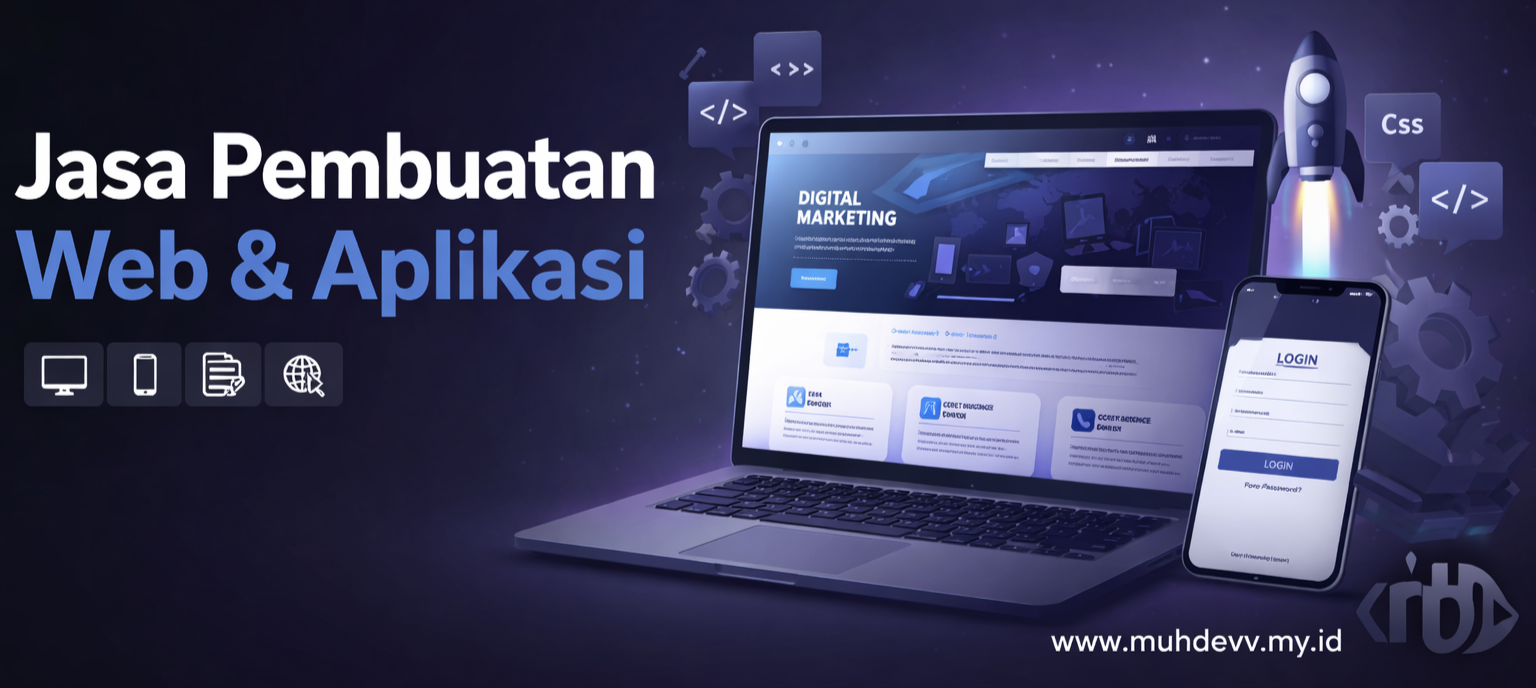
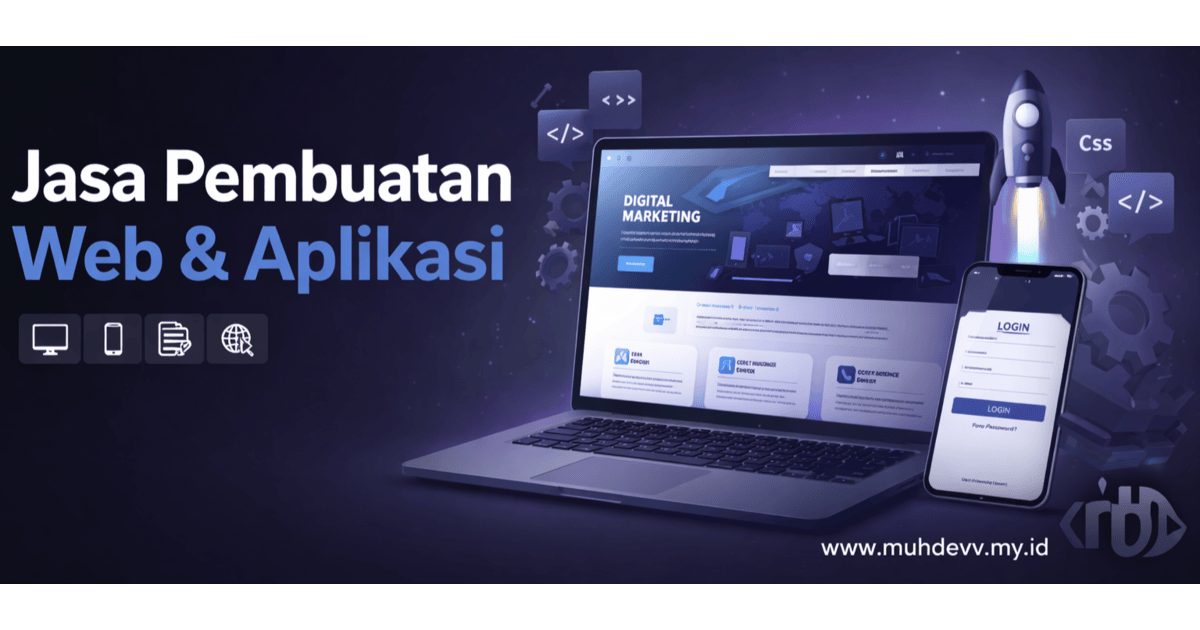
fix og.image

diff --git a/index.html b/index.html
@@ -7,14 +7,17 @@
     <meta name="description" content="Jasa pembuatan website, aplikasi, dan bantuan tugas kuliah IT. Dikerjakan profesional, tepat waktu, dan transparan." />
     <meta name="author" content="muhdev" />
 
+    <link rel="canonical" href="https://www.muhdevv.my.id/" />
+
     <meta property="og:title" content="muhdev - Solusi Digital Terpercaya" />
     <meta property="og:description" content="Jasa pembuatan website, aplikasi, dan bantuan tugas kuliah IT. Dikerjakan profesional, tepat waktu, dan transparan." />
     <meta property="og:type" content="website" />
-    <meta property="og:image" content="/og.image.png" />
+    <meta property="og:url" content="https://www.muhdevv.my.id/" />
+    <meta property="og:image" content="https://www.muhdevv.my.id/og.image.png" />
 
     <meta name="twitter:card" content="summary_large_image" />
     <meta name="twitter:site" content="@muhdev" />
-    <meta name="twitter:image" content="/og.image.png" />
+    <meta name="twitter:image" content="https://www.muhdevv.my.id/og.image.png" />
 
     <link rel="icon" href="/logo.png">
   </head>
